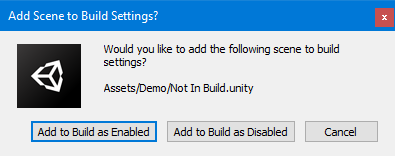
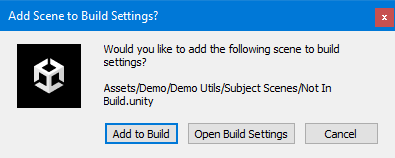
feat: add button to open build settings to scene-in-build utility popups (#42)

diff --git a/Eflatun.SceneReference/Packages/com.eflatun.scenereference/Editor/SceneReferencePropertyDrawer.cs b/Eflatun.SceneReference/Packages/com.eflatun.scenereference/Editor/SceneReferencePropertyDrawer.cs
@@ -108,7 +108,7 @@ namespace Eflatun.SceneReference.Editor
                 var title = "Add Scene to Build Settings?";
                 var body = $"Would you like to add the following scene to build settings?\n\n{_path}";
 
-                switch (EditorUtility.DisplayDialogComplex(title, body, "Add to Build as Enabled", "Add to Build as Disabled", "Cancel"))
+                switch (EditorUtility.DisplayDialogComplex(title, body, "Add to Build", "Cancel", "Open Build Settings"))
                 {
                     case 0:
                     {
@@ -118,8 +118,12 @@ namespace Eflatun.SceneReference.Editor
                     }
                     case 1:
                     {
-                        tempScenes.Add(new EditorBuildSettingsScene(_path, false));
-                        changed = true;
+                        // 1 is cancel
+                        break;
+                    }
+                    case 2:
+                    {
+                        PingAssetAndOpenBuildSettings();
                         break;
                     }
                 }
@@ -129,10 +133,24 @@ namespace Eflatun.SceneReference.Editor
                 var title = "Enable Scene in Build Settings?";
                 var body = $"Would you like to enable the following scene in build settings?\n\n{_path}";
 
-                if (EditorUtility.DisplayDialog(title, body, "Enable in Build", "Cancel"))
+                switch (EditorUtility.DisplayDialogComplex(title, body, "Enable in Build", "Cancel", "Open Build Settings"))
                 {
-                    tempScenes.Single(x => x.guid.ToString() == _guid).enabled = true;
-                    changed = true;
+                    case 0:
+                    {
+                        tempScenes.Single(x => x.guid.ToString() == _guid).enabled = true;
+                        changed = true;
+                        break;
+                    }
+                    case 1:
+                    {
+                        // 1 is cancel
+                        break;
+                    }
+                    case 2:
+                    {
+                        PingAssetAndOpenBuildSettings();
+                        break;
+                    }
                 }
             }
 
@@ -204,6 +222,12 @@ namespace Eflatun.SceneReference.Editor
             return _asset && IsUtilityLineEnabled && NeedsBuildSettingsFix
                 ? EditorGUIUtility.singleLineHeight * 2
                 : EditorGUIUtility.singleLineHeight;
+        }
+
+        private void PingAssetAndOpenBuildSettings()
+        {
+            EditorGUIUtility.PingObject(_asset);
+            EditorWindow.GetWindow<BuildPlayerWindow>();
         }
     }
 }

diff --git a/CHANGELOG.md b/CHANGELOG.md
@@ -10,10 +10,13 @@ The format is based on [Keep a Changelog](https://keepachangelog.com/en/1.0.0/),
 ### Breaking Changes
 
 ### Added
+- `Open Build Settings` button to the scene-in-build utility popups. This button will ping the scene in the project view and open build settings, allowing you to fix your build settings manually.
 
 ### Changed
+- `Add to Build as Enabled` button is renamed to `Add to Build` in scene-in-build utility popups of scenes that are not in build.
 
 ### Removed
+- `Add to Build as Disabled` button in the scene-in-build utility popups of scenes that are not in build. This button was not making much sense because adding to build as disabled doesn't actually fix the situation, since the scene will still be disabled afterwards.
 
 ### Fixed
 
